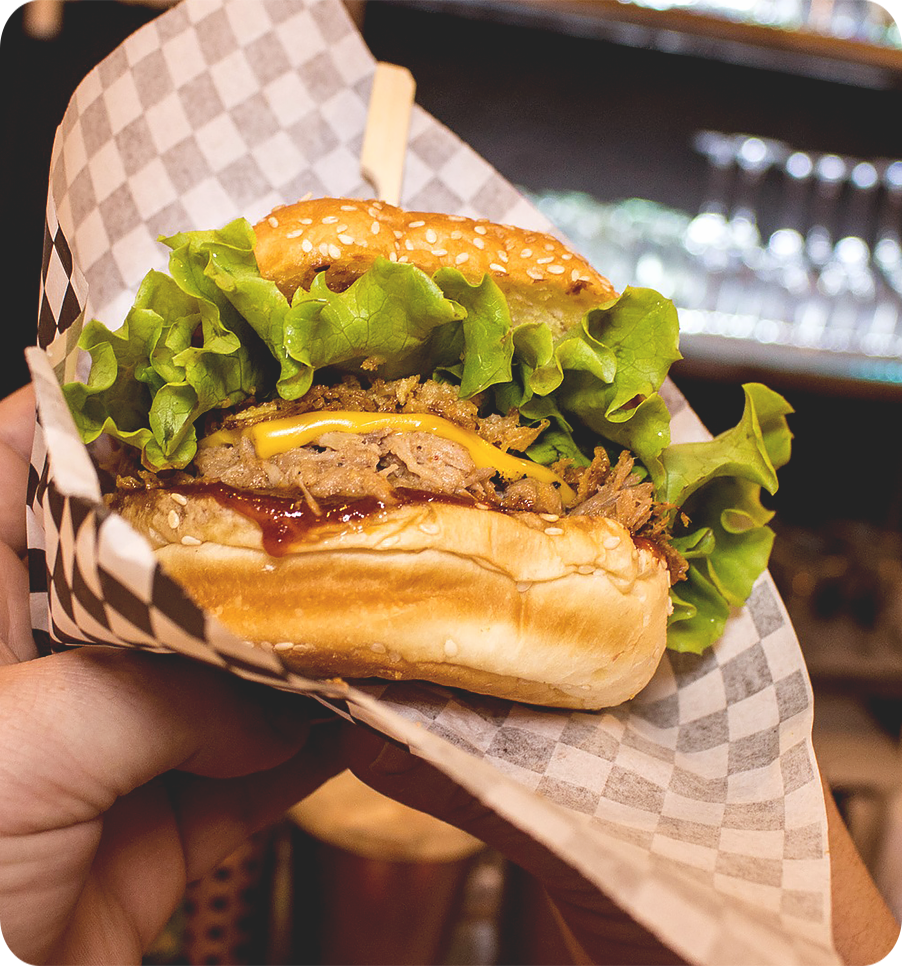
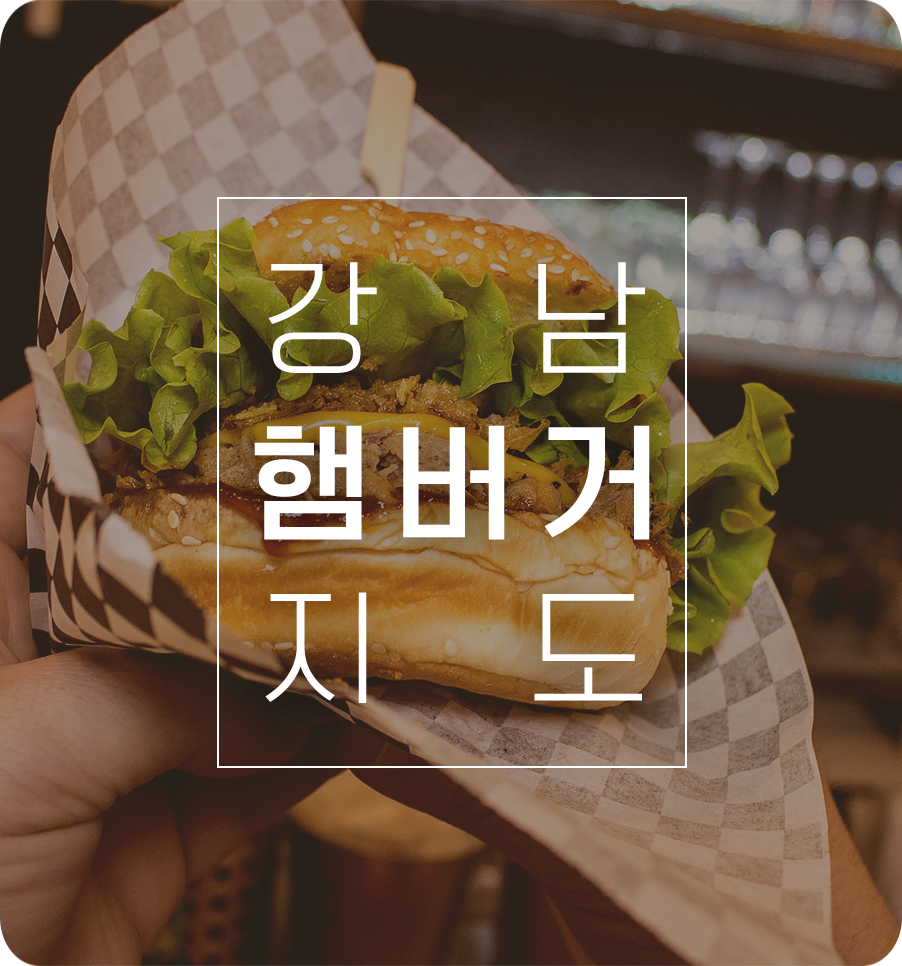
매거진 컨텐츠 수정, 메인이미지 수정,

diff --git a/css/style.css b/css/style.css
@@ -1620,15 +1620,14 @@ body {
 }
 
 .magazine-page .main .news-list .list-item {
-  -webkit-animation: fadeInUp 3s;
-          animation: fadeInUp 3s;
-  display: -webkit-box;
-  display: -ms-flexbox;
-  display: flex;
-  padding-bottom: 50px;
+  -webkit-animation: fadeInUp 2s;
+          animation: fadeInUp 2s;
+  display: none;
+  padding-bottom: 80px;
 }
 
 .magazine-page .main .news-list .list-item .item-picture img {
+  width: 471px;
   border-radius: 10px;
 }
 
@@ -1644,7 +1643,7 @@ body {
   -webkit-box-pack: center;
       -ms-flex-pack: center;
           justify-content: center;
-  padding-left: 80px;
+  padding-left: 50px;
 }
 
 .magazine-page .main .news-list .list-item .item-info .info-date {

diff --git a/css/style.scss b/css/style.scss
@@ -1231,11 +1231,12 @@ body{
       width: 1000px;
     
       .list-item{
-        animation: fadeInUp 3s;
-        display: flex;
-        padding-bottom: 50px;
-
+        animation: fadeInUp 2s;
+        display: none;
+        padding-bottom: 80px;
+        
         .item-picture img{
+          width: 471px;
           border-radius: 10px;
         }
         .item-info{
@@ -1243,7 +1244,7 @@ body{
           display: flex;
           flex-direction: column;
           justify-content: center;
-          padding-left: 80px;
+          padding-left: 50px;
 
           .info-date{
             font-size: 18px;

diff --git a/css/m.style.css b/css/m.style.css
@@ -1080,9 +1080,7 @@
   -webkit-animation: fadeInUp 3s;
           animation: fadeInUp 3s;
   width: 100%;
-  display: -webkit-box;
-  display: -ms-flexbox;
-  display: flex;
+  display: none;
   -webkit-box-flex: 1;
       -ms-flex: 1;
           flex: 1;

diff --git a/css/m.style.scss b/css/m.style.scss
@@ -823,7 +823,7 @@
       .list-item{
         animation: fadeInUp 3s;
         width: 100%;
-        display: flex;
+        display: none;
         flex: 1;
         align-items: center;
         flex-direction: column;

diff --git a/news.php b/news.php
@@ -21,21 +21,44 @@ for($indexi = 0 ; $indexi < count($arr_browser) ; $indexi++) {
       <div class="news-list">
         <div class="list-item">
           <div class="item-picture">
-            <img src="./images/cafe1.jpg" />
+            <img src="./images/main_banner/whereit_img_m.main_001.png" />
           </div>
           <div class="item-info">
             <div class="info-date">
-              2018.08.02
+              2018.12.14
             </div>
             <div class="theme-title">
-              강남역 인근에서<br>풀코스로 놀기
+              [어디지도] 강남 햄버거 지도
             </div>
             <div class="text">
-              인파가 많은 강남역의 큰길은 프렌차이즈 업체들이 즐비해있다.<br>
-              언제나 새롭고 맛있는 곳을 추구하는 인스타그래머들은 강남역에서<br>
-              어디를 갈까? 추억을 남길 수 있는 장소를 레모네이드가 찾아 보았다.
+              서울에서 즐기는 미국 감성. 역삼, 신사, 봉천동의 수제버거 맛집을 알려드립니다.
             </div>
-            <div class="more" onclick="location.href='news_detail.php'">
+            <div class="more" onclick="location.href='news_detail.php?data-id=1'">
+              <div id="text">
+                VIEW MORE
+              </div>
+              <img src="./images/more.png">
+            </div>
+          </div>
+        </div>
+        <div class="list-item">
+          <div class="item-picture">
+            <img src="./images/main_banner/whereit_img_m.main_002.png" />
+          </div>
+          <div class="item-info">
+            <div class="info-date">
+              2018.12.14
+            </div>
+            <div class="theme-title">
+              [맛집을 여행하는 히치하이커를 위한 안내서] 우동이 맛있는 BEST5
+            </div>
+            <div class="text">
+              01. 망원동 즉석 우동<br>
+              망원동에 누가 봐도 즉석우동을 파는 곳이 있다. '망원동즉석우동'이 바로 그 주인공이다.<br>
+              망원동에서 우동 맛집으로 워낙 유명한 곳인지라 근처에 살거나 우동 매니아라면 한 번쯤 들어봤을 법한 곳이다.<br>
+              새벽 늦은 시간에도 우동을 먹으러 오는 해장 손님들이 많으며, 가끔은 밤 늦은 시간에도 줄을 서서 기다려야…<br>
+            </div>
+            <div class="more" onclick="location.href='news_detail.php?data-id=2'">
               <div id="text">
                 VIEW MORE
               </div>
@@ -48,53 +71,69 @@ for($indexi = 0 ; $indexi < count($arr_browser) ; $indexi++) {
   </div>
 
 <script>
-  var news_length = 0
-  var limit = 3
-  function news_fadein(n){
-    if(n < limit){
-      var slot_template = _.template($("#news-slot").html());
-      try{
-        $(".news-list").append( slot_template() )
-      }catch(err){}
-    }
-  }
-  function load(){
-    setTimeout(function(){
-      news_fadein(news_length);
-      news_length ++
-    }, 1000);
-  }
+
+  var news = $('.list-item')
+  
   $(document).ready(function(){
-    load()
-  });
-  $(window).scroll(function() {
-    if($(window).scrollTop() + $(window).height() == $(document).height()) {
-      if(news_length <= limit){
-        news_length +=1
-        news_fadein(news_length)
-      }
+    for(var n=0; n < 2; n++){
+      ani_load(n)
     }
   });
+
+  function ani_load(n){
+    setTimeout(function() {
+      $(news[n]).css('display','flex')
+    }, n * 900);
+  }
+  // var news_length = 0
+  // var limit = 2
+  // function news_fadein(n){
+  //   if(n < limit){
+  //     var slot_template = _.template($("#news-slot").html());
+  //     try{
+  //       $(".news-list").append( slot_template() )
+  //     }catch(err){}
+  //   }
+  // }
+  // function load(){
+  //   setTimeout(function(){
+  //     news_fadein(news_length);
+  //     news_length ++
+  //   }, 1000);
+  // }
+  // $(document).ready(function(){
+  //   load()
+  // });
+  // $(window).scroll(function() {
+  //   if($(window).scrollTop() + $(window).height() == $(document).height()) {
+  //     if(news_length <= limit){
+  //       news_length +=1
+  //       news_fadein(news_length)
+  //     }
+  //   }
+  // });
   
   
 </script>
 
 <script id="news-slot" type="text/template">
-  <div class="list-item">
+  <!-- <div class="list-item">
     <div class="item-picture">
-      <img src="./images/cafe1.jpg" />
+      <img src="./images/main_banner/whereit_img_m.main_002.png" />
     </div>
     <div class="item-info">
       <div class="info-date">
-        2018.08.02
+        2018.12.14
       </div>
       <div class="theme-title">
-        강남역 인근에서<br>풀코스로 놀기
+        [맛집을 여행하는 히치하이커를 위한 안내서]
       </div>
       <div class="text">
-        인파가 많은 강남역의 큰길은 프렌차이즈 업체들이 즐비해있다.<br>
-        언제나 새롭고 맛있는 곳을 추구하는 인스타그래머들은 강남역에서<br>
-        어디를 갈까? 추억을 남길 수 있는 장소를 레모네이드가 찾아 보았다.
+        [맛집을 여행하는 히치하이커를 위한 안내서] 우동이 맛있는 BEST5<br>
+        01. 망원동 즉석 우동<br>
+        망원동에 누가 봐도 즉석우동을 파는 곳이 있다. '망원동즉석우동'이 바로 그 주인공이다.<br>
+        망원동에서 우동 맛집으로 워낙 유명한 곳인지라 근처에 살거나 우동 매니아라면 한 번쯤 들어봤을 법한 곳이다.<br>
+        새벽 늦은 시간에도 우동을 먹으러 오는 해장 손님들이 많으며, 가끔은 밤 늦은 시간에도 줄을 서서 기다려야…<br>
       </div>
       <div class="more">
         <div id="text">
@@ -103,7 +142,7 @@ for($indexi = 0 ; $indexi < count($arr_browser) ; $indexi++) {
         <img src="./images/more.png">
       </div>
     </div>
-  </div>
+  </div> -->
 </script>
 
 </body>

diff --git a/m.news.php b/m.news.php
@@ -1,9 +1,10 @@
 <?php $page = "news" ?>
 <?php
 $data =
-["인파가 많은 강남역의 큰길은 프렌차이즈 업체들이 즐비해있다.
-언제나 새롭고 맛있는 곳을 추구하는 인스타그래머들은 강남역에서
-어디를 갈까? 추억을 남길 수 있는 장소를 레모네이드가 찾아 보았다.",
+["01. 망원동 즉석 우동<br>
+망원동에 누가 봐도 즉석우동을 파는 곳이 있다. '망원동즉석우동'이 바로 그 주인공이다.<br>
+망원동에서 우동 맛집으로 워낙 유명한 곳인지라 근처에 살거나 우동 매니아라면 한 번쯤 들어봤을 법한 곳이다.<br>
+새벽 늦은 시간에도 우동을 먹으러 오는 해장 손님들이 많으며, 가끔은 밤 늦은 시간에도 줄을 서서 기다려야…<br>",
 ];
 //글자수제한
 function simpl_str($string,$limit_length) {
@@ -30,19 +31,35 @@ function simpl_str($string,$limit_length) {
   <div class="main">
     <div class="news-list">
       <div class="list-item">
-        <div class="news-picture" onclick="location.href='./m.news_detail.php'">
-          <img src="./images/m_cafe1.jpg" />
+        <div class="news-picture" onclick="location.href='./m.news_detail.php?data-id=1'">
+          <img src="./images/main_banner/whereit_img_m.main_001.png" />
         </div>
         <div class="news-info">
           <div class="news-date">
-            2018.08.09
+            2018.12.14
           </div>
           <div class="news-title">
-            강남역 인근에서 풀코스로 놀기
+            [어디지도] 강남 햄버거 지도
           </div>
           <div class="news-content">
             <!--데이터 교체 필요-->
-            <?=simpl_str($data[0],52)?> 
+            서울에서 즐기는 미국 감성. 역삼, 신사, 봉천동의 수제버거 맛집을 알려드립니다. 
+          </div>
+        </div>
+      </div>
+      <div class="list-item">
+        <div class="news-picture" onclick="location.href='./m.news_detail.php?data-id=2'">
+          <img src="./images/main_banner/whereit_img_m.main_002.png" />
+        </div>
+        <div class="news-info">
+          <div class="news-date">
+            2018.12.14
+          </div>
+          <div class="news-title">
+            [맛집을 여행하는 히치하이커를 위한 안내서] 우동이 맛있는 BEST5
+          </div>
+          <div class="news-content">
+          <?=simpl_str($data[0],52)?> 
           </div>
         </div>
       </div>
@@ -50,33 +67,49 @@ function simpl_str($string,$limit_length) {
   </div>
 
 <script>
-  var news_length = 0
-  var limit = 3
-  function news_fadein(n){
-    if(n < limit){
-      var slot_template = _.template($("#news-slot").html());
-      try{
-        $(".news-list").append( slot_template() )
-      }catch(err){}
-    }
-  }
-  function load(){
-    setTimeout(function(){
-      news_fadein(news_length);
-      news_length ++
-    }, 1000);
-  }
+
+  var news = $('.list-item')
+  
   $(document).ready(function(){
-    load()
-  });
-  $(window).scroll(function() {
-    if($(window).scrollTop() + $(window).height() == $(document).height()) {
-      if(news_length <= limit){
-        news_length +=1
-        news_fadein(news_length)
-      }
+    for(var n=0; n < 2; n++){
+      ani_load(n)
     }
   });
+
+  function ani_load(n){
+    setTimeout(function() {
+      $(news[n]).css('display','flex')
+    }, n * 900);
+  }
+
+
+  // var news_length = 0
+  // var limit = 3
+  // function news_fadein(n){
+  //   if(n < limit){
+  //     var slot_template = _.template($("#news-slot").html());
+  //     try{
+  //       $(".news-list").append( slot_template() )
+  //     }catch(err){}
+  //   }
+  // }
+  // function load(){
+  //   setTimeout(function(){
+  //     news_fadein(news_length);
+  //     news_length ++
+  //   }, 1000);
+  // }
+  // $(document).ready(function(){
+  //   load()
+  // });
+  // $(window).scroll(function() {
+  //   if($(window).scrollTop() + $(window).height() == $(document).height()) {
+  //     if(news_length <= limit){
+  //       news_length +=1
+  //       news_fadein(news_length)
+  //     }
+  //   }
+  // });
 </script>
 
 <script id="news-slot" type="text/template">

diff --git a/news_detail.php b/news_detail.php
@@ -24,13 +24,15 @@
     <div class="main">
     <?php if($data_id==1) {?>
       <img src="<?php echo $url ?>"/>
-    <?php }else{?>
+    <?php }else if($data_id == 2){?>
       <img src="./히치하이커/콘텐츠내용/히치하이커1회차_01.png"/>
       <img src="./히치하이커/콘텐츠내용/히치하이커1회차_02.png"/>
       <img src="./히치하이커/콘텐츠내용/히치하이커1회차_03.png"/>
       <img src="./히치하이커/콘텐츠내용/히치하이커1회차_04.png"/>
       <img src="./히치하이커/콘텐츠내용/히치하이커1회차_05.png"/>
-    <?php }?>
+    <?php }else{?>
+      
+    <?php } ?>
     </div>
   </div>
 </div>
